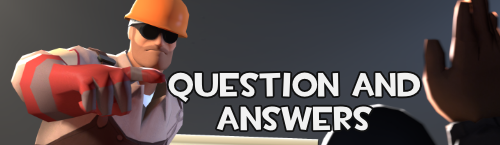
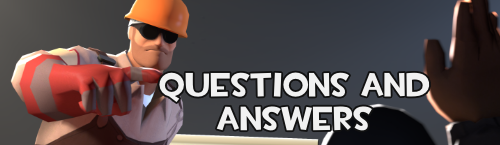
Minor spelling mistake & new wip post

Changed region(s): [[0.3, 0.469, 0.87, 0.7172]]

diff --git a/_posts/blog/2022-7-17-opening-the-fortress.md b/_posts/blog/2022-7-17-opening-the-fortress.md
@@ -1,0 +1,23 @@
+---
+layout: blog
+subject: "Blog"
+title: "Opening the Fortress"
+date:   2022-06-02 00:13:00 -0500
+categories: blog
+permalink: /:categories/:slug
+hidden: true
+author: Sour Dani
+ImageDescription: "Poster by FarLegends"
+description: "Pre-Fortress 2 goes open source."
+image: /assets/blog/images/sb-qna.png
+NoImageEffect: 1
+excerpt: ""
+---
+
+The dev build is no more.
+
+We are now open source.
+Every update will be through GitHub and any experimental or WIP changes going towards the next update
+Change branch to dev.
+
+We have restructured the discord servers.
